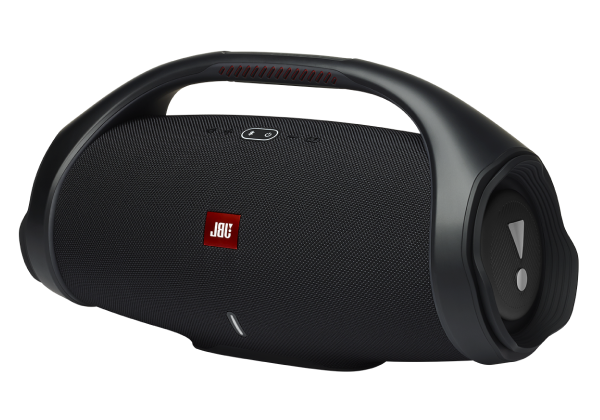
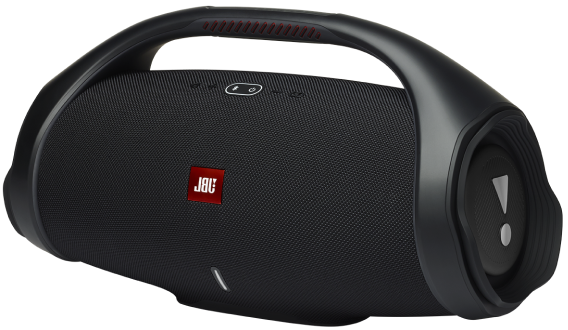
created banner2

diff --git a/src/components/home/Banner.jsx b/src/components/home/Banner.jsx
@@ -35,7 +35,7 @@ const Banner = () => {
                 className="mySwiper text-white bg-black"
             >
                 <SwiperSlide>
-                    <div className='flex flex-col md:flex-row md:justify-around items-center min-h-[450px] gap-4'>
+                    <div className='flex flex-col-reverse md:flex-row md:justify-around items-center min-h-[450px] gap-4'>
                         <div className='flex flex-col justify-center p-4'>
                             <h4 className="text-xl flex items-center gap-3"><FaApple className='md:text-4xl text-2xl' /> iphone 124 series</h4>
                             <h2 className="text-2xl md:text-5xl font-bold my-6 md:my-8">Up to 10% <br /> off Voucher</h2>
@@ -49,7 +49,7 @@ const Banner = () => {
                     </div>
                 </SwiperSlide>
                 <SwiperSlide>
-                    <div className='flex flex-col md:flex-row md:justify-around items-center min-h-[450px] gap-4'>
+                    <div className='flex flex-col-reverse md:flex-row md:justify-around items-center min-h-[450px] gap-4'>
                         <div className='flex flex-col justify-center p-4'>
                             <h4 className="text-xl flex items-center gap-3"><FaApple className='md:text-4xl text-2xl' /> Vote Speaker</h4>
                             <h2 className="text-2xl md:text-5xl font-bold my-6 md:my-8">Up to 10% <br /> off Voucher</h2>
@@ -58,12 +58,12 @@ const Banner = () => {
                             </div>
                         </div>
                         <div className='p-4'>
-                            <Image src={Banner2} alt='Banner Image' width={350}></Image>
+                            <Image src={Banner2} alt='Banner Image' width={300}></Image>
                         </div>
                     </div>
                 </SwiperSlide>
                 <SwiperSlide>
-                    <div className='flex flex-col md:flex-row md:justify-around items-center min-h-[450px] gap-4'>
+                    <div className='flex flex-col-reverse md:flex-row md:justify-around items-center min-h-[450px] gap-4'>
                         <div className='flex flex-col justify-center p-4'>
                             <h4 className="text-xl flex items-center gap-3"><FaApple className='md:text-4xl text-2xl' /> Camera Cannon series</h4>
                             <h2 className="text-2xl md:text-5xl font-bold my-6 md:my-8">Up to 10% <br /> off Voucher</h2>
@@ -72,12 +72,12 @@ const Banner = () => {
                             </div>
                         </div>
                         <div className='p-4'>
-                            <Image src={Banner3} alt='Banner Image' width={300}></Image>
+                            <Image src={Banner3} alt='Banner Image' width={200}></Image>
                         </div>
                     </div>
                 </SwiperSlide>
                 <SwiperSlide>
-                    <div className='flex flex-col md:flex-row md:justify-around items-center min-h-[450px] gap-4'>
+                    <div className='flex flex-col-reverse md:flex-row md:justify-around items-center min-h-[450px] gap-4'>
                         <div className='flex flex-col justify-center p-4'>
                             <h4 className="text-xl flex items-center gap-3"><FaApple className='md:text-4xl text-2xl' /> small speaker series</h4>
                             <h2 className="text-2xl md:text-5xl font-bold my-6 md:my-8">Up to 10% <br /> off Voucher</h2>
@@ -91,7 +91,7 @@ const Banner = () => {
                     </div>
                 </SwiperSlide>
                 <SwiperSlide>
-                    <div className='flex flex-col md:flex-row md:justify-around items-center min-h-[450px] gap-4'>
+                    <div className='flex flex-col-reverse md:flex-row md:justify-around items-center min-h-[450px] gap-4'>
                         <div className='flex flex-col justify-center p-4'>
                             <h4 className="text-xl flex items-center gap-3"><FaApple className='md:text-4xl text-2xl' /> perfume</h4>
                             <h2 className="text-2xl md:text-5xl font-bold my-6 md:my-8">Up to 10% <br /> off Voucher</h2>

diff --git a/src/components/home/SecondBanner.jsx b/src/components/home/SecondBanner.jsx
@@ -1,0 +1,28 @@
+import React from 'react';
+import BannerImg from "../../../public/assets/banner2.png"
+import Image from 'next/image';
+
+const SecondBanner = () => {
+    return (
+        <div className='min-h-[500px] flex flex-col md:flex-row justify-around bg-black my-16 items-center'>
+            <div className='p-6 md:p-8 space-y-10'>
+                <p className='text-green-700 font-bold mb-10'>Categories</p>
+                <h2 className="text-2xl text-white font-bold md:text-5xl">Enhance Your <br /> Music Experience</h2>
+                <div className='flex gap-3'>
+                    <p className='rounded-full bg-white text-black text-center w-20 py-3'><span className='font-bold text-xl'>23</span> <br /> Hours</p>
+                    <p className='rounded-full bg-white text-black text-center w-20 py-3'><span className='font-bold text-xl'>05</span> <br /> Days</p>
+                    <p className='rounded-full bg-white text-black text-center w-20 py-3'><span className='font-bold text-xl'>59</span> <br /> MInutes</p>
+                    <p className='rounded-full bg-white text-black text-center w-20 py-3'><span className='font-bold text-xl'>35</span> <br /> Seconds</p>
+                </div>
+                <div>
+                    <button className='btn px-5 py-2 rounded-lg bg-green-400 text-white font-bold'>Buy Now</button>
+                </div>
+            </div>
+            <div>
+                <Image className='p-6' src={BannerImg} alt='Banner Image'></Image>
+            </div>
+        </div>
+    );
+};
+
+export default SecondBanner;

diff --git a/src/app/page.js b/src/app/page.js
@@ -1,4 +1,5 @@
 
+import SecondBanner from "@/components/home/SecondBanner";
 import Banner from "../components/home/Banner";
 
 export default function Home() {
@@ -6,6 +7,7 @@ export default function Home() {
     <div>
       <main>
         <Banner></Banner>
+        <SecondBanner></SecondBanner>
       </main>
     </div>
   );
